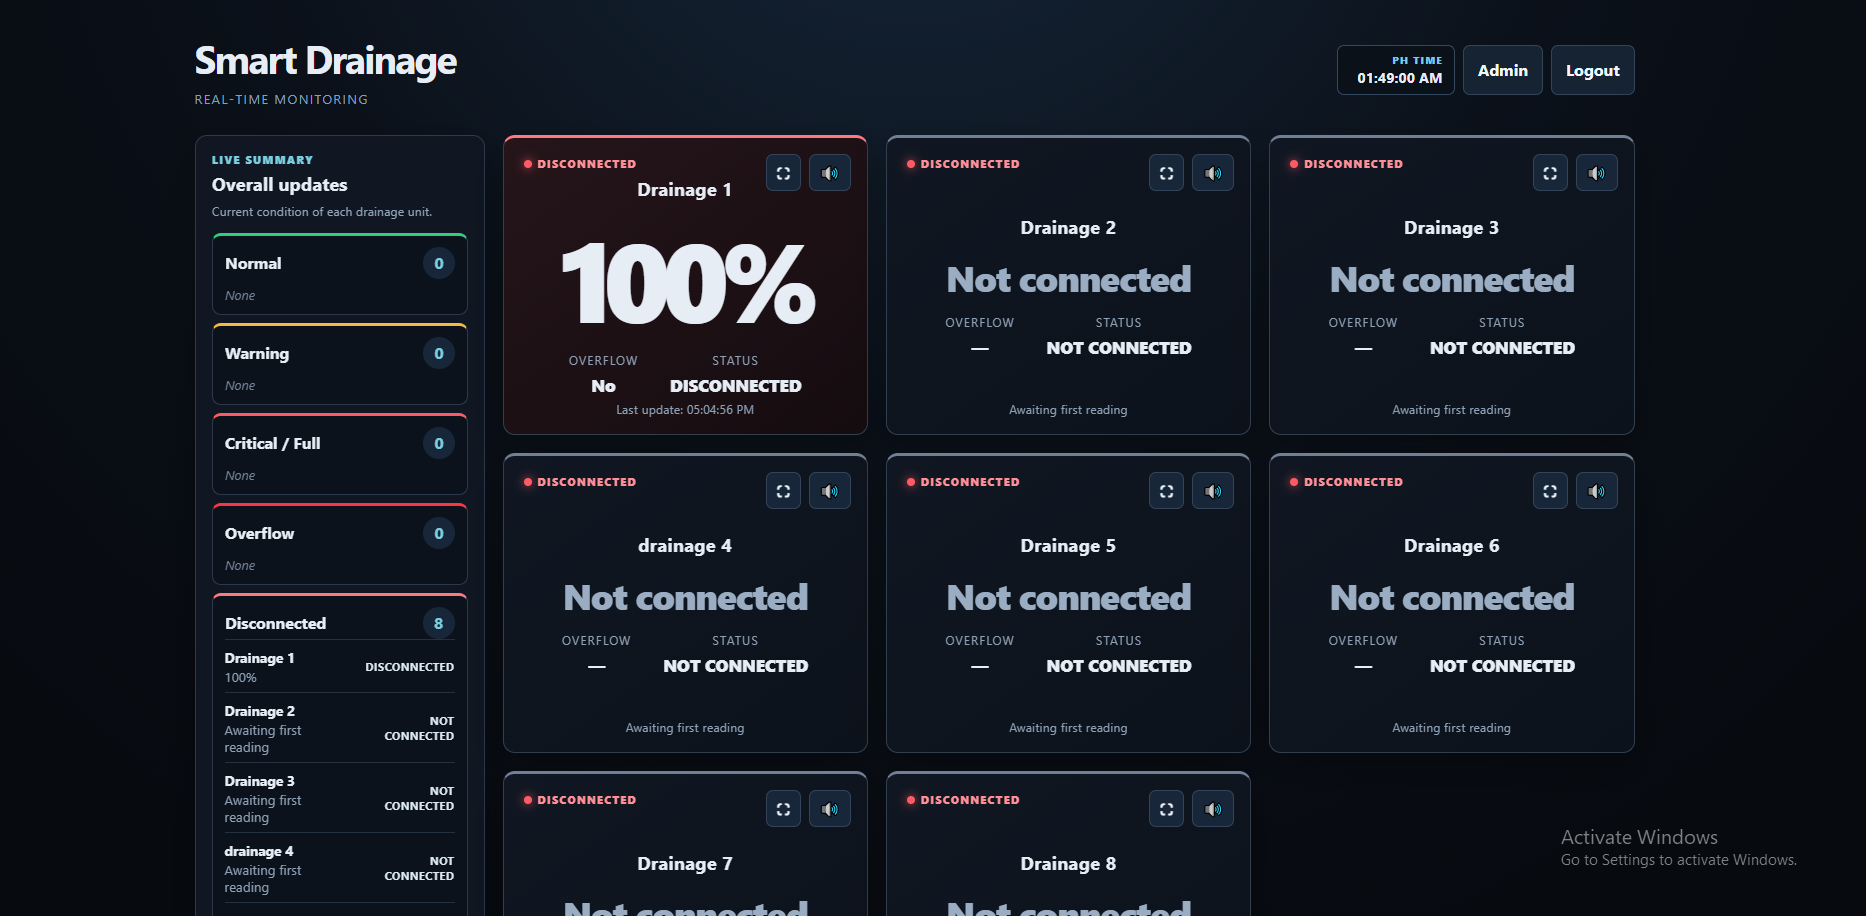
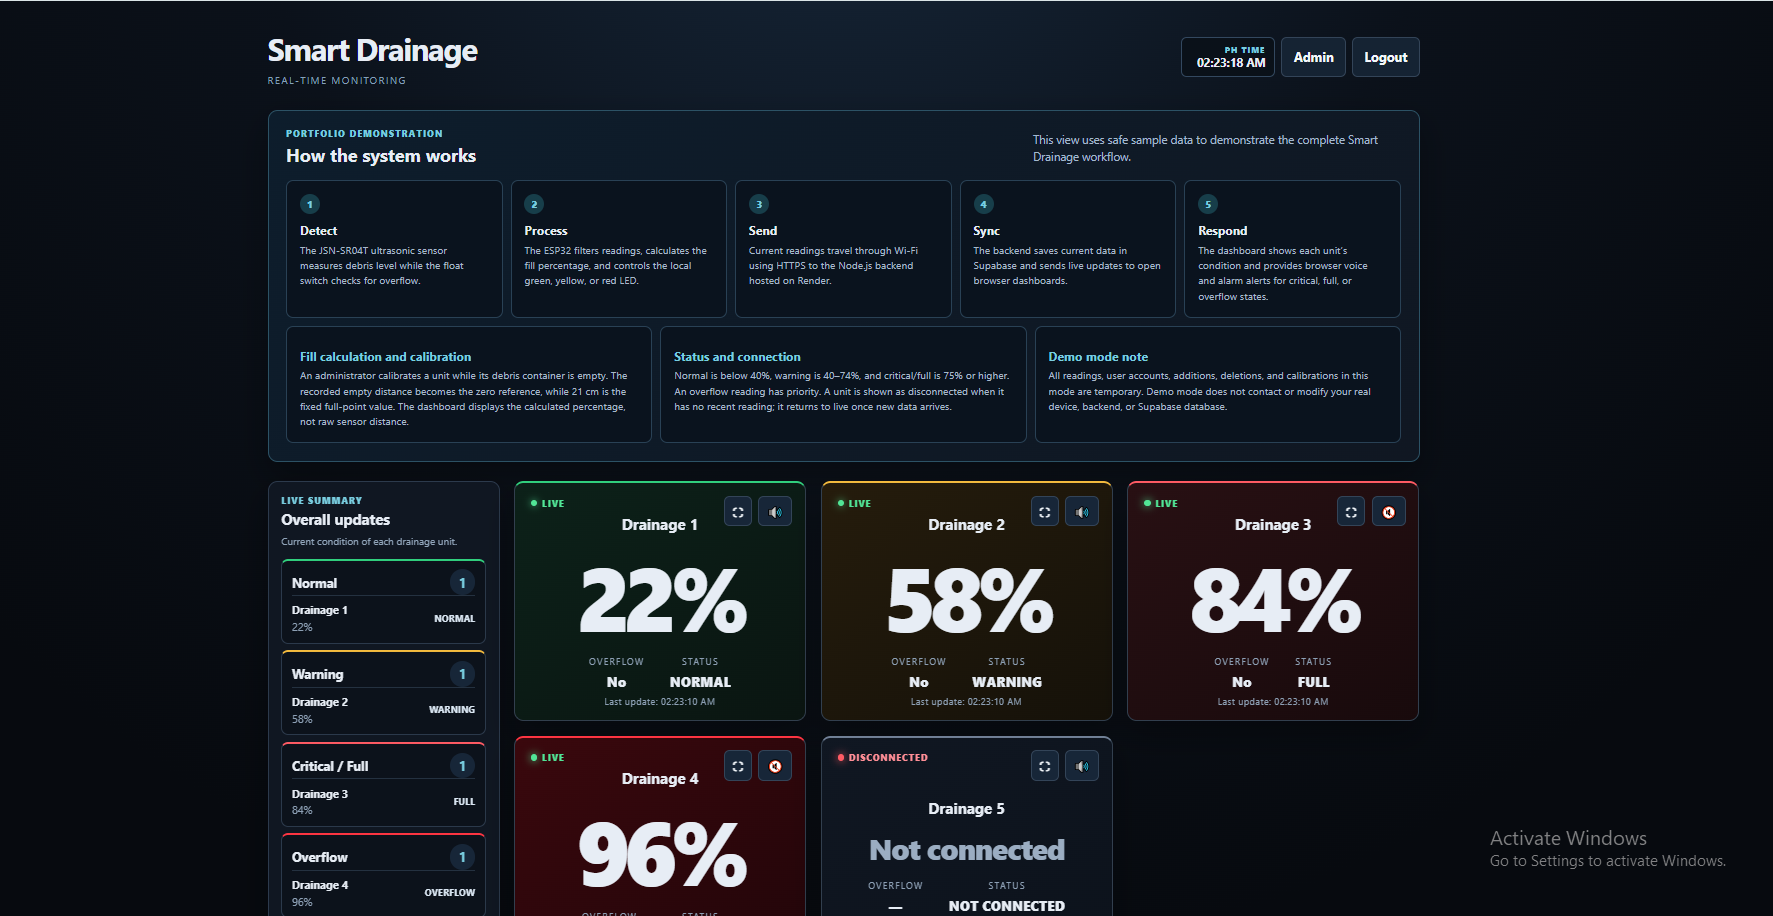
Explain Smart Drainage demo mode

Changed region(s): [[0.0931, 0.4891, 0.8686, 1.0], [0.0931, 0.0306, 0.8996, 0.4891], [0.8376, 0.8865, 0.9616, 0.9476]]

diff --git a/app/page.tsx b/app/page.tsx
@@ -59,8 +59,8 @@ export default function Home() {
       <section className="section projects" id="projects">
         <div className="section-head"><div><div className="section-label">03 / FEATURED WORK</div><h2>Projects with purpose.</h2></div></div>
         <article className="featured-card">
-          <div className="project-content"><div className="project-top"><span className="project-no">01</span><span className="pill">THESIS PROJECT</span></div><p className="kicker">Smart Infrastructure · IoT · Web Dashboard</p><h3>Smart Roadside Drainage with Integrated Debris Storage &amp; Sensor-Based Monitoring</h3><p>An intelligent drainage system designed to detect rising water and accumulated debris before they become serious hazards—supporting faster response and preventive maintenance. I also developed a responsive monitoring dashboard through AI-assisted development and iterative prototyping.</p><div className="tech"><span>ESP32</span><span>JSN-SR04T</span><span>Float Switch</span><span>LTE</span><span>Web Dashboard</span><span>AI-Assisted Development</span></div><ul><li>Real-time drainage status monitoring</li><li>Multi-unit dashboard and alerts</li><li>Preventive maintenance visibility</li></ul><a className="project-live" href="https://smart-drainage-4z2l.vercel.app/" target="_blank" rel="noreferrer">View live dashboard <b>↗</b></a></div>
-          <a className="project-preview" href="https://smart-drainage-4z2l.vercel.app/" target="_blank" rel="noreferrer" aria-label="Open the Smart Drainage live monitoring dashboard"><img src="/smart-drainage-dashboard.png" alt="Smart Drainage real-time monitoring dashboard showing eight drainage units"/><span>Open live monitoring dashboard <b>↗</b></span></a>
+          <div className="project-content"><div className="project-top"><span className="project-no">01</span><span className="pill">THESIS PROJECT</span></div><p className="kicker">Smart Infrastructure · IoT · Web Dashboard</p><h3>Smart Roadside Drainage with Integrated Debris Storage &amp; Sensor-Based Monitoring</h3><p>An intelligent drainage system designed to detect rising water and accumulated debris before they become serious hazards—supporting faster response and preventive maintenance. I developed its responsive monitoring dashboard through AI-assisted development and iterative prototyping, demonstrating my ability to create similar monitoring systems for other real-world applications.</p><div className="tech"><span>ESP32</span><span>JSN-SR04T</span><span>Float Switch</span><span>LTE</span><span>Web Dashboard</span><span>AI-Assisted Development</span></div><ul><li>Real-time drainage status monitoring</li><li>Multi-unit dashboard and alerts</li><li>Preventive maintenance visibility</li></ul><div className="demo-note"><b>How to explore the demo</b><span>Open the live dashboard, then click <strong>“Open portfolio demo.”</strong> The demo includes system information and simulated random drainage events so you can see how the application responds to normal, warning, full, overflow, and disconnected conditions.</span></div><a className="project-live" href="https://smart-drainage-4z2l.vercel.app/" target="_blank" rel="noreferrer">Open dashboard &amp; try demo mode <b>↗</b></a></div>
+          <a className="project-preview" href="https://smart-drainage-4z2l.vercel.app/" target="_blank" rel="noreferrer" aria-label="Open the Smart Drainage portfolio demonstration"><img src="/smart-drainage-dashboard.png" alt="Smart Drainage portfolio demo showing system information and simulated drainage conditions"/><span>Click “Open portfolio demo” on the login screen <b>↗</b></span></a>
         </article>
         <div className="project-grid">{projects.map(p => <article className="project-card" key={p.num}><span>{p.num}</span><p className="kicker">{p.tag}</p><h3>{p.title}</h3><p>{p.text}</p><a href="#contact" aria-label={`Ask about ${p.title}`}>View project <b>↗</b></a></article>)}</div>
       </section>

diff --git a/app/globals.css b/app/globals.css
@@ -4,6 +4,7 @@
 @media(prefers-reduced-motion:reduce){html{scroll-behavior:auto}.reveal,.orbit-two{animation:none}}
 
 .project-live{display:inline-flex;align-items:center;justify-content:space-between;gap:35px;margin-top:22px;padding:13px 16px;background:var(--teal);color:#062333;font:700 9px monospace;letter-spacing:.1em;text-transform:uppercase;transition:.2s}.project-live:hover{background:var(--mint);transform:translateY(-2px)}
+.demo-note{margin-top:22px;padding:16px;border-left:3px solid var(--teal);background:#102d3e;color:#a9bdc7}.demo-note b{display:block;margin-bottom:7px;color:var(--mint);font:700 9px monospace;letter-spacing:.1em;text-transform:uppercase}.demo-note span{display:block;font-size:11px;line-height:1.65}.demo-note strong{color:white}
 .project-preview{position:relative;min-height:460px;margin:20px;overflow:hidden;border:1px solid #254354;background:#07111d;display:block}.project-preview img{width:100%;height:100%;object-fit:cover;object-position:left top;display:block;opacity:.88;transition:transform .45s ease,opacity .3s ease}.project-preview:after{content:"";position:absolute;inset:0;background:linear-gradient(180deg,transparent 55%,#061421ed 100%);pointer-events:none}.project-preview span{position:absolute;z-index:2;left:24px;right:24px;bottom:22px;display:flex;justify-content:space-between;color:white;font:700 9px monospace;letter-spacing:.1em;text-transform:uppercase}.project-preview span b{color:var(--mint)}.project-preview:hover img{transform:scale(1.025);opacity:1}
 @media(max-width:900px){.project-preview{min-height:420px}}
 @media(max-width:560px){.project-preview{margin:0;min-height:300px}.project-preview span{left:16px;right:16px;bottom:16px}}
